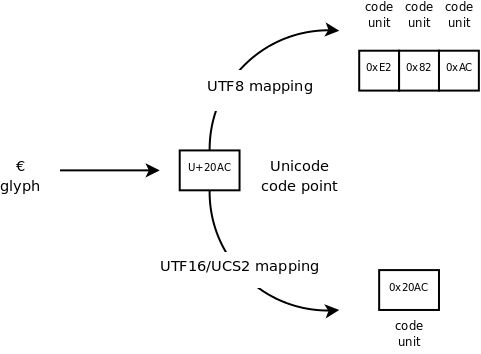
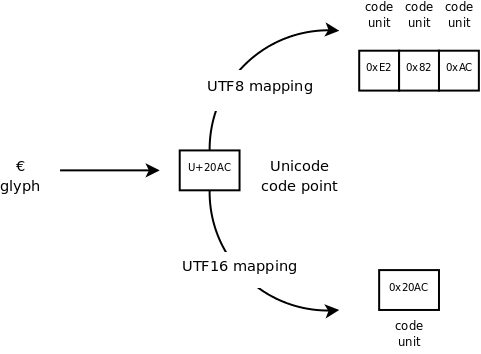
added a overview_string_binary section describing what is wxString support with regard to binary data; removed traces of UCS2 wording; it was not completely correct (see wx-dev thread 'string changes doubts and docs')
git-svn-id: https://svn.wxwidgets.org/svn/wx/wxWidgets/trunk@57204 c3d73ce0-8a6f-49c7-b76d-6d57e0e08775

Changed region(s): [[0.3119, 0.7147, 0.6861, 0.7768]]

diff --git a/docs/doxygen/overviews/string.h b/docs/doxygen/overviews/string.h
@@ -14,6 +14,7 @@ Classes: wxString, wxArrayString, wxStringTokenizer
 
 @li @ref overview_string_intro
 @li @ref overview_string_internal
+@li @ref overview_string_binary
 @li @ref overview_string_comparison
 @li @ref overview_string_advice
 @li @ref overview_string_related
@@ -27,16 +28,12 @@ Classes: wxString, wxArrayString, wxStringTokenizer
 @section overview_string_intro Introduction
 
 wxString is a class which represents a Unicode string of arbitrary length and
-containing arbitrary characters.
-
-The @c NUL character is allowed, but be
-aware that in the current string implementation some methods might not work
-correctly in this case. @todo still true?
+containing arbitrary Unicode characters.
 
 This class has all the standard operations you can expect to find in a string
 class: dynamic memory management (string extends to accommodate new
-characters), construction from other strings, C strings, wide character C strings
-and characters, assignment operators, access to individual characters, string
+characters), construction from other strings, compatibility with C strings and
+wide character C strings, assignment operators, access to individual characters, string
 concatenation and comparison, substring extraction, case conversion, trimming and
 padding (with spaces), searching and replacing and both C-like @c printf (wxString::Printf)
 and stream-like insertion functions as well as much more - see wxString for a
@@ -49,28 +46,31 @@ in previous versions.
 
 @section overview_string_internal Internal wxString encoding
 
-Since wxWidgets 3.0 wxString internally uses <b>UCS-2</b> (with Unicode
+Since wxWidgets 3.0 wxString internally uses <b>UTF-16</b> (with Unicode
 code units stored in @c wchar_t) under Windows and <b>UTF-8</b> (with Unicode
 code units stored in @c char) under Unix, Linux and Mac OS X to store its content.
 
 For definitions of <em>code units</em> and <em>code points</em> terms, please
 see the @ref overview_unicode_encodings paragraph.
 
-Note that there is a difference about UCS-2 and UTF-16: the first is a fixed-length
-encoding, without <em>surrogate pairs</em>, while the latter is a
-variable-length encoding. Except for this the two encodings are identical.
-
 For simplicity of implementation, wxString when <tt>wxUSE_UNICODE_WCHAR==1</tt>
-(e.g. on Windows) uses UCS-2 and thus doesn't know anything about surrogate pairs;
-it always consider 1 code unit per 1 code point, while this is really true only for
-characters in the @e BMP (Basic Multilingual Plane).
+(e.g. on Windows) uses <em>per code unit indexing</em> instead of
+<em>per code point indexing</em> and doesn't know anything about surrogate pairs;
+in other words it always considers code points to be composed by 1 code point,
+while this is really true only for characters in the @e BMP (Basic Multilingual Plane).
 Thus when iterating over a UTF-16 string stored in a wxString under Windows, the user
-code has to take care of <em>surrogate pair</em> handling himself.
+code has to take care of <em>surrogate pairs</em> himself.
 (Note however that Windows itself has built-in support for surrogate pairs in UTF-16,
 such as for drawing strings on screen.)
 
+@remarks
+Note that while the behaviour of wxString when <tt>wxUSE_UNICODE_WCHAR==1</tt>
+resembles UCS-2 encoding, it's not completely correct to refer to wxString as
+UCS-2 encoded since you can encode characters outside the @e BMP in a wxString.
+
 When instead <tt>wxUSE_UNICODE_UTF8==1</tt> (e.g. on Linux and Mac OS X)
-wxString handles UTF8 multi-bytes sequences just fine, so that you can use
+wxString handles UTF8 multi-bytes sequences just fine also for characters outside
+the BMP (it implements <em>per code point indexing</em>), so that you can use
 UTF8 in a completely transparent way:
 
 Example:
@@ -89,7 +89,7 @@ Example:
     wxPrintf("wxString reports a length of %d character(s)", test.length());
         // prints "wxString reports a length of 1 character(s)" on Linux
         // prints "wxString reports a length of 2 character(s)" on Windows
-        // since Windows doesn't have surrogate pairs support!
+        // since wxString on Windows doesn't have surrogate pairs support!
 
 
     // second test, this time using characters part of the Unicode BMP:
@@ -113,16 +113,29 @@ above; it's composed by 3 characters and the final @c NULL:
 
 @image html overview_wxstring_encoding.png
 
-As you can see, UCS2/UTF16 encoding is straightforward (for characters in the @e BMP)
-and in this example the UCS2-encoded wxString takes 8 bytes.
+As you can see, UTF16 encoding is straightforward (for characters in the @e BMP)
+and in this example the UTF16-encoded wxString takes 8 bytes.
 UTF8 encoding is more elaborated and in this example takes 7 bytes.
 
-The type used by wxString to store Unicode code units is called wxStringCharType.
-
 In general, for strings containing many latin characters UTF8 provides a big
-advantage in memory footprint respect UTF16, but requires some more processing
-for common operations like e.g. length calculation.
+advantage with regards to the memory footprint respect UTF16, but requires some
+more processing for common operations like e.g. length calculation.
 
+Finally, note that the type used by wxString to store Unicode code units
+(@c wchar_t or @c char) is always @c typedef-ined to be ::wxStringCharType.
+
+
+@section overview_string_binary Using wxString to store binary data
+
+wxString can be used to store binary data (even if it contains @c NULs) using the
+functions wxString::To8BitData and wxString::From8BitData.
+
+Beware that even if @c NUL character is allowed, in the current string implementation
+some methods might not work correctly with them.
+
+Note however that other classes like wxMemoryBuffer are more suited to this task.
+For handling binary data you may also want to look at the wxStreamBuffer,
+wxMemoryOutputStream, wxMemoryInputStream classes.
 
 
 @section overview_string_comparison Comparison to Other String Classes
@@ -364,11 +377,16 @@ difference the change to @c EXTRA_ALLOC makes to your program.
 
 Much work has been done to make existing code using ANSI string literals
 work as before version 3.0.
+
 If you nonetheless need to have a wxString that uses @c wchar_t
 on Unix and Linux, too, you can specify this on the command line with the
 @c configure @c --disable-utf8 switch or you can consider using wxUString
 or @c std::wstring instead.
 
+@c wxUSE_UNICODE is now defined as @c 1 by default to indicate Unicode support.
+If UTF-8 is used for the internal storage in wxString, @c wxUSE_UNICODE_UTF8 is
+also defined, otherwise @c wxUSE_UNICODE_WCHAR is.
+See also @ref page_wxusedef_important.
 
 */
 

diff --git a/docs/doxygen/overviews/unicode.h b/docs/doxygen/overviews/unicode.h
@@ -49,8 +49,8 @@ other services should be ready to deal with Unicode.
 
 When working with Unicode, it's important to define the meaning of some terms.
 
-A <b><em>glyph</em></b> is a particular image that represents a character or part
-of a character.
+A <b><em>glyph</em></b> is a particular image (usually part of a font) that
+represents a character or part of a character.
 Any character may have one or more glyph associated; e.g. some of the possible
 glyphs for the capital letter 'A' are:
 
@@ -60,7 +60,13 @@ Unicode assigns each character of almost any existing alphabet/script a number,
 which is called <b><em>code point</em></b>; it's typically indicated in documentation
 manuals and in the Unicode website as @c U+xxxx where @c xxxx is an hexadecimal number.
 
-The Unicode standard divides the space of all possible code points in @e planes;
+Note that typically one character is assigned exactly one code point, but there
+are exceptions; the so-called <em>precomposed characters</em>
+(see http://en.wikipedia.org/wiki/Precomposed_character) or the <em>ligatures</em>.
+In these cases a single "character" may be mapped to more than one code point or
+viceversa more characters may be mapped to a single code point.
+
+The Unicode standard divides the space of all possible code points in <b><em>planes</em></b>;
 a plane is a range of 65,536 (1000016) contiguous Unicode code points.
 Planes are numbered from 0 to 16, where the first one is the @e BMP, or Basic
 Multilingual Plane.
@@ -73,7 +79,7 @@ Code points are represented in computer memory as a sequence of one or more
 More precisely, a code unit is the minimal bit combination that can represent a
 unit of encoded text for processing or interchange.
 
-The @e UTF or Unicode Transformation Formats are algorithms mapping the Unicode
+The <b><em>UTF</em></b> or Unicode Transformation Formats are algorithms mapping the Unicode
 code points to code unit sequences. The simplest of them is <b>UTF-32</b> where
 each code unit is composed by 32 bits (4 bytes) and each code point is always
 represented by a single code unit (fixed length encoding).
@@ -129,7 +135,7 @@ programs require the Microsoft Layer for Unicode to run on Windows 95/98/ME.
 However, unlike the Unicode build mode of the previous versions of wxWidgets, this
 support is mostly transparent: you can still continue to work with the @b narrow
 (i.e. current locale-encoded @c char*) strings even if @b wide
-(i.e. UTF16/UCS2-encoded @c wchar_t* or UTF8-encoded @c char*) strings are also
+(i.e. UTF16-encoded @c wchar_t* or UTF8-encoded @c char*) strings are also
 supported. Any wxWidgets function accepts arguments of either type as both
 kinds of strings are implicitly converted to wxString, so both
 @code
@@ -386,7 +392,7 @@ function directly.
 
 @section overview_unicode_settings Unicode Related Compilation Settings
 
-@c wxUSE_UNICODE is now defined as 1 by default to indicate Unicode support.
+@c wxUSE_UNICODE is now defined as @c 1 by default to indicate Unicode support.
 If UTF-8 is used for the internal storage in wxString, @c wxUSE_UNICODE_UTF8 is
 also defined, otherwise @c wxUSE_UNICODE_WCHAR is.
 
